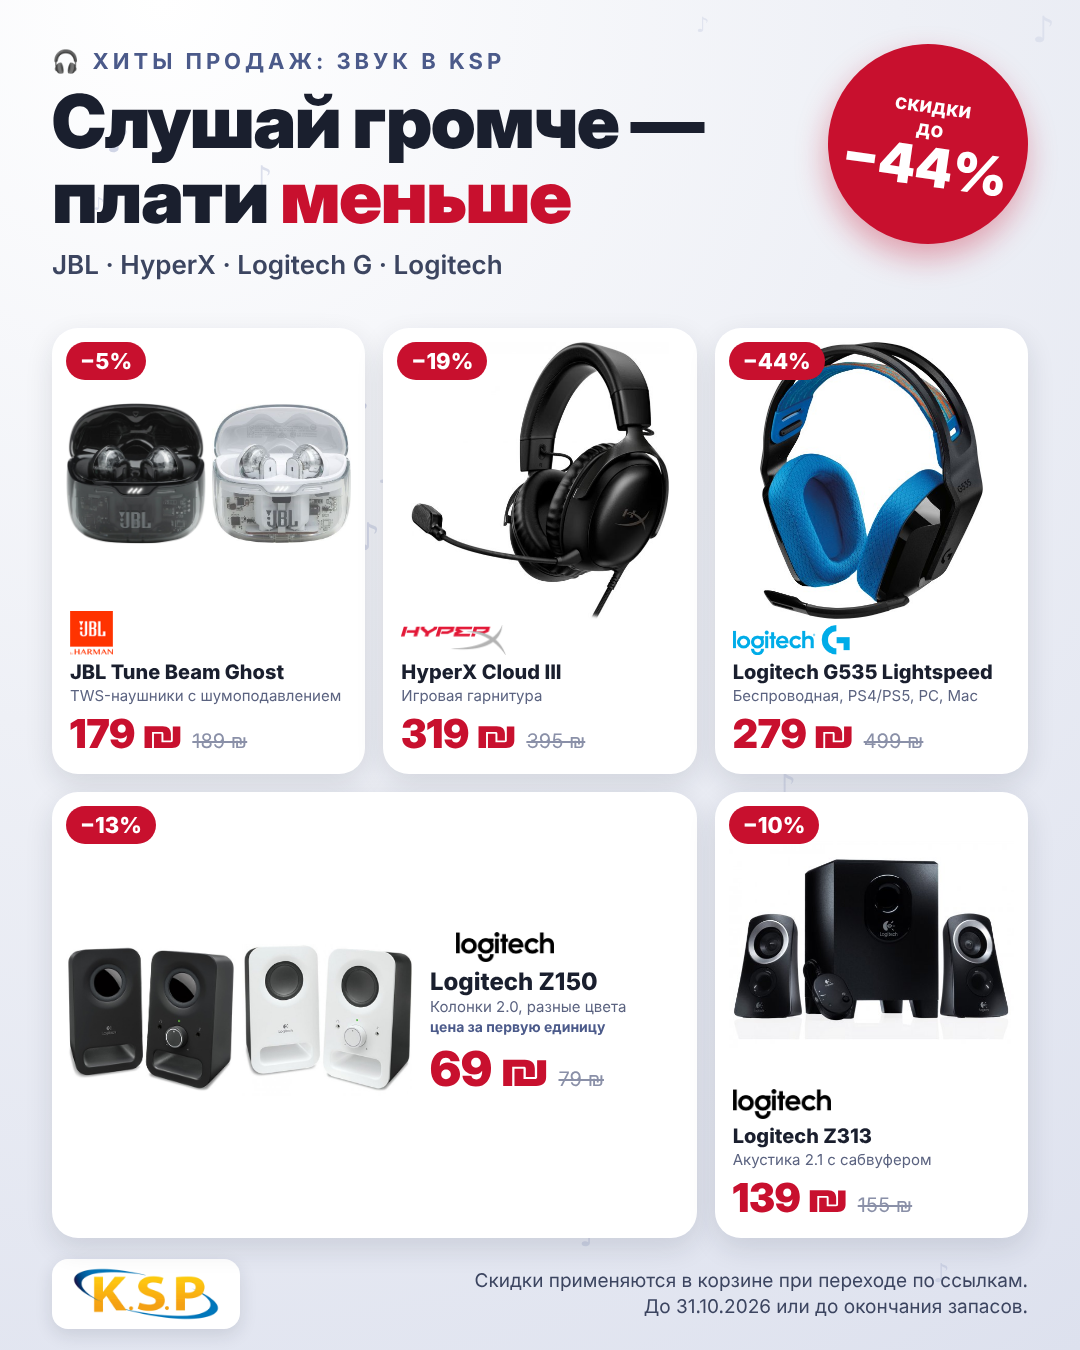
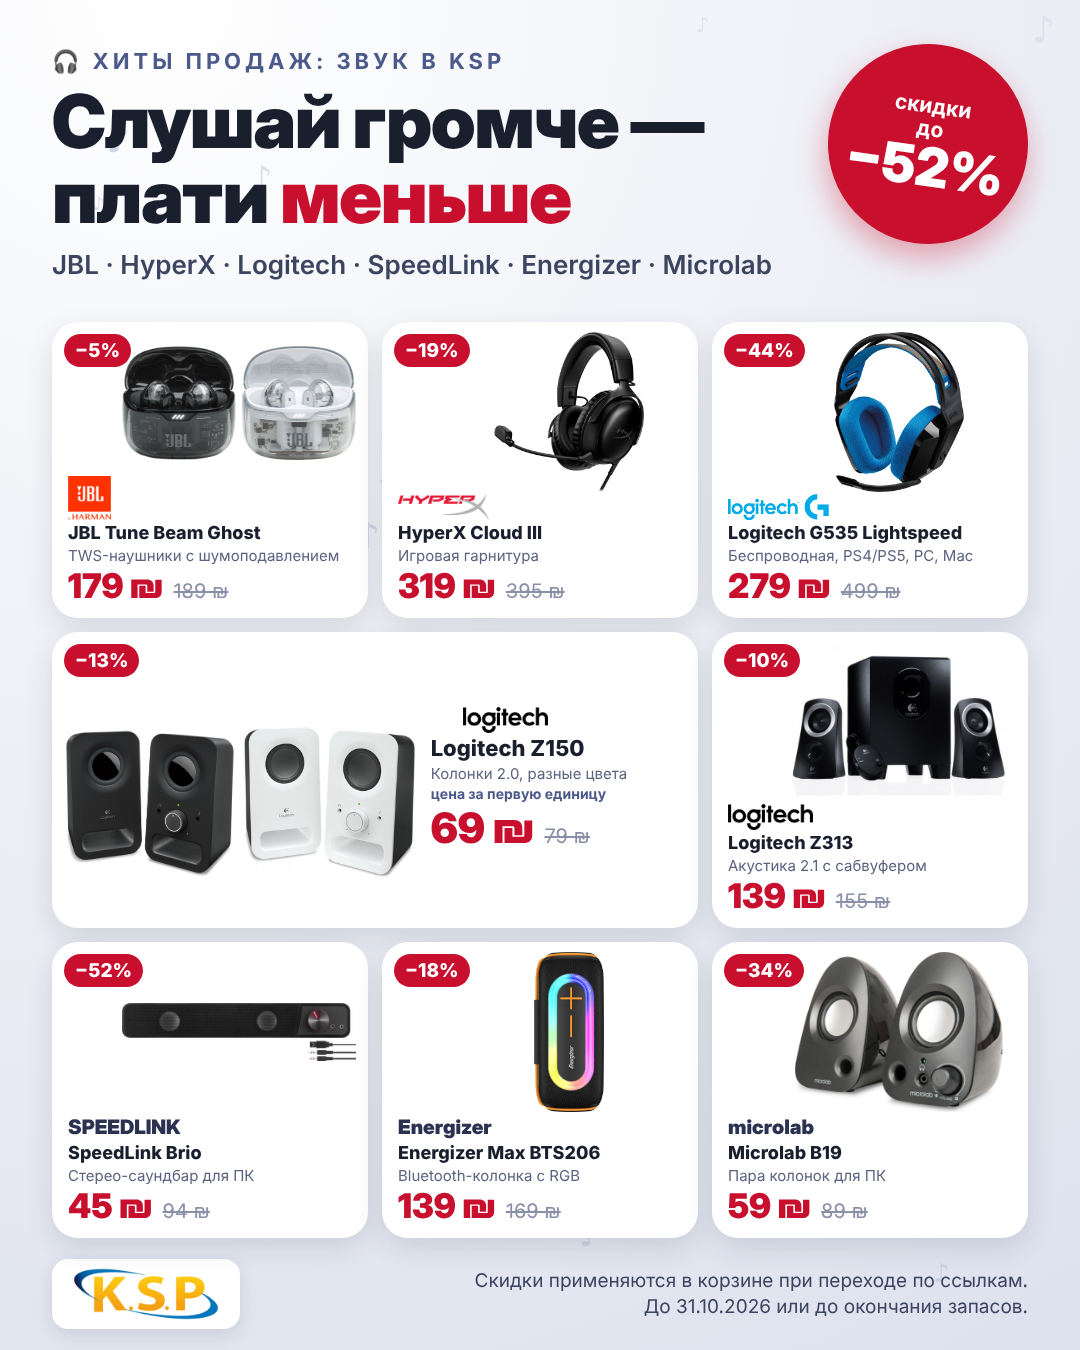
Add SpeedLink Brio, Energizer BTS206 and Microlab B19 to sound promo
Claude-Session: https://claude.ai/code/session_01G3xLikWFack3bze3pWJxPE

diff --git a/ksp-sound-promo/render.js b/ksp-sound-promo/render.js
@@ -13,6 +13,9 @@ const P = {
   g535: { logo: 'logitech-g-logo.png', name: 'Logitech G535 Lightspeed', size: 'Беспроводная, PS4/PS5, PC, Mac', imgs: ['logitech-g535.jpg'], now: '279', was: '499' },
   z150: { logo: 'logitech-logo.png', name: 'Logitech Z150', size: 'Колонки 2.0, разные цвета', imgs: ['logitech-z150-black.jpg', 'logitech-z150-white.jpg'], now: '69', was: '79', note: 'цена за первую единицу' },
   z313: { logo: 'logitech-logo.png', name: 'Logitech Z313', size: 'Акустика 2.1 с сабвуфером', imgs: ['logitech-z313.jpg'], now: '139', was: '155' },
+  brio: { wm: 'SPEEDLINK', name: 'SpeedLink Brio', size: 'Стерео-саундбар для ПК', imgs: ['speedlink-brio.jpg'], now: '45', was: '94' },
+  energizer: { wm: 'Energizer', name: 'Energizer Max BTS206', size: 'Bluetooth-колонка с RGB', imgs: ['energizer-bts206.jpg'], now: '139', was: '169' },
+  microlab: { wm: 'microlab', name: 'Microlab B19', size: 'Пара колонок для ПК', imgs: ['microlab-b19.jpg'], now: '59', was: '89' },
 };
 const pct = (p) => Math.round((1 - p.now / p.was) * 100);
 const maxOff = Math.max(...Object.values(P).map(pct));
@@ -33,25 +36,26 @@ h1 em { font-style: normal; color: #c8102e; }
 .promo small { font-size: 21px; font-weight: 700; line-height: 1.1; }
 .promo b { font-family: 'Inter Display'; font-weight: 900; font-size: 54px; line-height: 1; }
 .head { min-height: 250px; }
-.grid { flex: 1; min-height: 0; display: grid; gap: 18px; margin-top: 30px;
-  grid-template-columns: 1fr 1fr 1fr; grid-template-rows: 1fr 1fr; grid-template-areas: 'a b c' 'd d e'; }
+.grid { flex: 1; min-height: 0; display: grid; gap: 14px; margin-top: 24px;
+  grid-template-columns: 1fr 1fr 1fr; grid-template-rows: 1fr 1fr 1fr; grid-template-areas: 'a b c' 'd d e' 'f g h'; }
 .card { min-height: 0; min-width: 0; position: relative; background: #fff; border-radius: 26px; overflow: hidden; box-shadow: 0 10px 28px rgba(26,31,46,.12); display: flex; flex-direction: column; }
-.card .ph { flex: 1; min-height: 0; position: relative; display: flex; gap: 6px; padding: 14px 14px 4px; }
+.card .ph { flex: 1; min-height: 0; position: relative; display: flex; gap: 6px; padding: 10px 12px 2px 70px; }
 .card .ph img { flex: 1; min-width: 0; width: 100%; height: 100%; object-fit: contain; mix-blend-mode: multiply; }
-.off { position: absolute; top: 14px; left: 14px; background: #c8102e; color: #fff; font-weight: 800; font-size: 22px; padding: 6px 14px; border-radius: 999px; z-index: 1; }
-.info { padding: 2px 18px 16px; }
-.logo { height: 30px; width: auto; max-width: 150px; object-fit: contain; display: block; }
-.info .n { font-weight: 800; font-size: 20px; line-height: 1.15; margin-top: 6px; }
+.off { position: absolute; top: 12px; left: 12px; background: #c8102e; color: #fff; font-weight: 800; font-size: 19px; padding: 5px 11px; border-radius: 999px; z-index: 1; }
+.info { padding: 0 16px 12px; }
+.wm { font-family: 'Inter Display'; font-weight: 900; font-size: 20px; line-height: 26px; color: #2b3150; }
+.logo { height: 26px; width: auto; max-width: 150px; object-fit: contain; display: block; }
+.info .n { font-weight: 800; font-size: 18px; line-height: 1.15; margin-top: 3px; }
 .info .s { font-size: 15px; color: #5b6380; margin-top: 2px; }
 .info .d { font-size: 14px; color: #4b5a8a; font-weight: 700; margin-top: 2px; }
-.price { display: flex; align-items: baseline; gap: 10px; margin-top: 4px; }
-.price .now { font-family: 'Inter Display'; font-weight: 900; font-size: 40px; color: #c8102e; }
+.price { display: flex; align-items: baseline; gap: 10px; margin-top: 0; }
+.price .now { font-family: 'Inter Display'; font-weight: 900; font-size: 34px; color: #c8102e; }
 .price .was { font-size: 20px; color: #8a90a8; text-decoration: line-through; }
 .card.row { flex-direction: row; }
-.card.row .ph { flex: 0 0 58%; }
+.card.row .ph { flex: 0 0 58%; padding-left: 12px; padding-top: 50px; }
 .card.row .info { flex: 1; display: flex; flex-direction: column; justify-content: center; padding: 16px 24px 16px 4px; }
-.card.row .info .n { font-size: 24px; }
-.card.row .price .now { font-size: 48px; }
+.card.row .info .n { font-size: 22px; }
+.card.row .price .now { font-size: 42px; }
 .foot { height: 112px; display: flex; align-items: center; justify-content: space-between; gap: 20px; }
 .foot .ksp { background: #fff; padding: 8px 20px; border-radius: 16px; box-shadow: 0 6px 18px rgba(26,31,46,.12); flex: none; }
 .foot .ksp img { height: 54px; display: block; }
@@ -69,7 +73,7 @@ const card = (p, area, row = false) => `
 <div class="card${row ? ' row' : ''}" style="grid-area:${area}">
   <div class="ph">${p.imgs.map((f) => `<img src="${img(f)}">`).join('')}<div class="off">−${pct(p)}%</div></div>
   <div class="info">
-    <img class="logo" src="${img(p.logo)}"${p.logoH ? ` style="height:${p.logoH}px"` : ''}>
+    ${p.logo ? `<img class="logo" src="${img(p.logo)}"${p.logoH ? ` style="height:${p.logoH}px"` : ''}>` : `<div class="wm">${p.wm}</div>`}
     <div class="n">${p.name}</div><div class="s">${p.size}</div>
     ${p.note ? `<div class="d">${p.note}</div>` : ''}
     <div class="price"><span class="now">${p.now} ₪</span><span class="was">${p.was} ₪</span></div>
@@ -80,9 +84,9 @@ const html = `<!doctype html><html lang="ru"><head><meta charset="utf-8"><style>
 <body>${deco()}<div class="wrap">
   <div class="head"><div class="kicker">🎧 Хиты продаж: звук в KSP</div>
   <h1>Слушай громче —<br>плати <em>меньше</em></h1>
-  <div class="brands">JBL · HyperX · Logitech G · Logitech</div></div>
+  <div class="brands">JBL · HyperX · Logitech · SpeedLink · Energizer · Microlab</div></div>
   <div class="promo"><small>скидки<br>до</small><b>−${maxOff}%</b></div>
-  <div class="grid">${card(P.jbl, 'a')}${card(P.hyperx, 'b')}${card(P.g535, 'c')}${card(P.z150, 'd', true)}${card(P.z313, 'e')}</div>
+  <div class="grid">${card(P.jbl, 'a')}${card(P.hyperx, 'b')}${card(P.g535, 'c')}${card(P.z150, 'd', true)}${card(P.z313, 'e')}${card(P.brio, 'f')}${card(P.energizer, 'g')}${card(P.microlab, 'h')}</div>
   <div class="foot"><div class="ksp"><img src="${img('ksp-logo.png')}"></div><p>Скидки применяются в корзине при переходе по ссылкам.<br>До 31.10.2026 или до окончания запасов.</p></div>
 </div></body></html>`;
 
